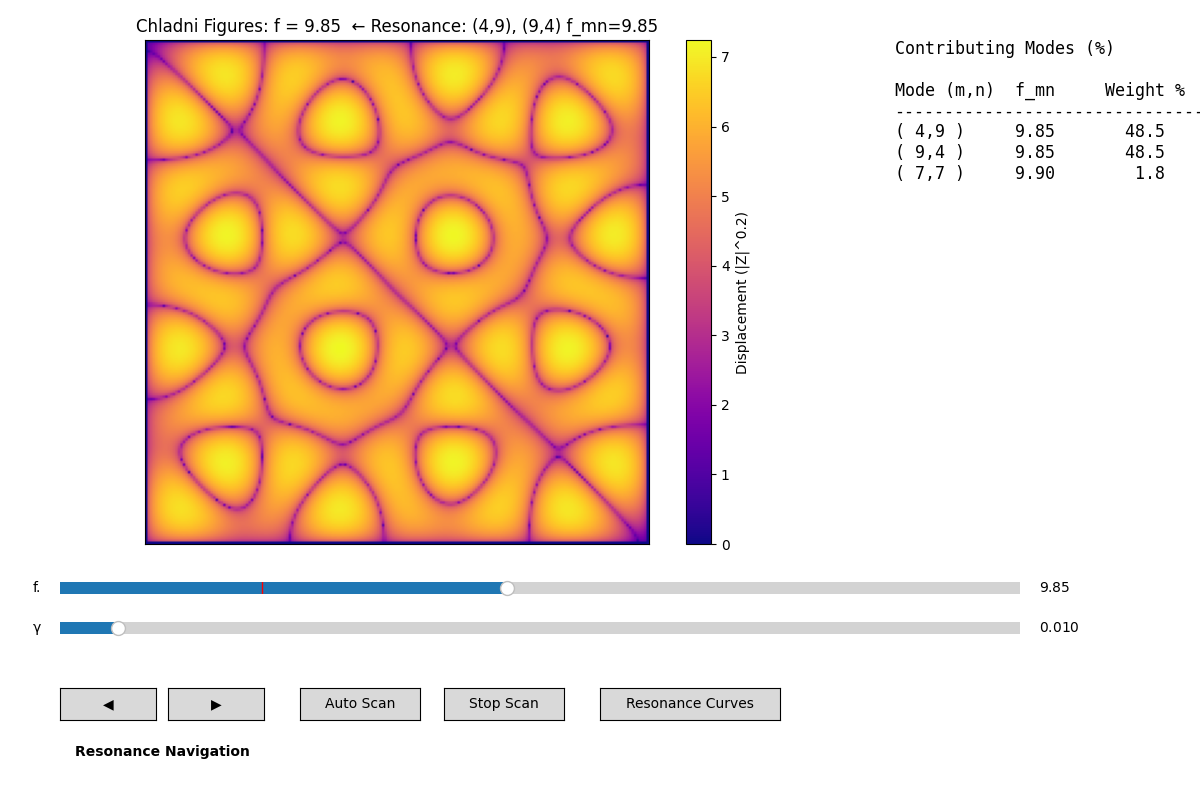
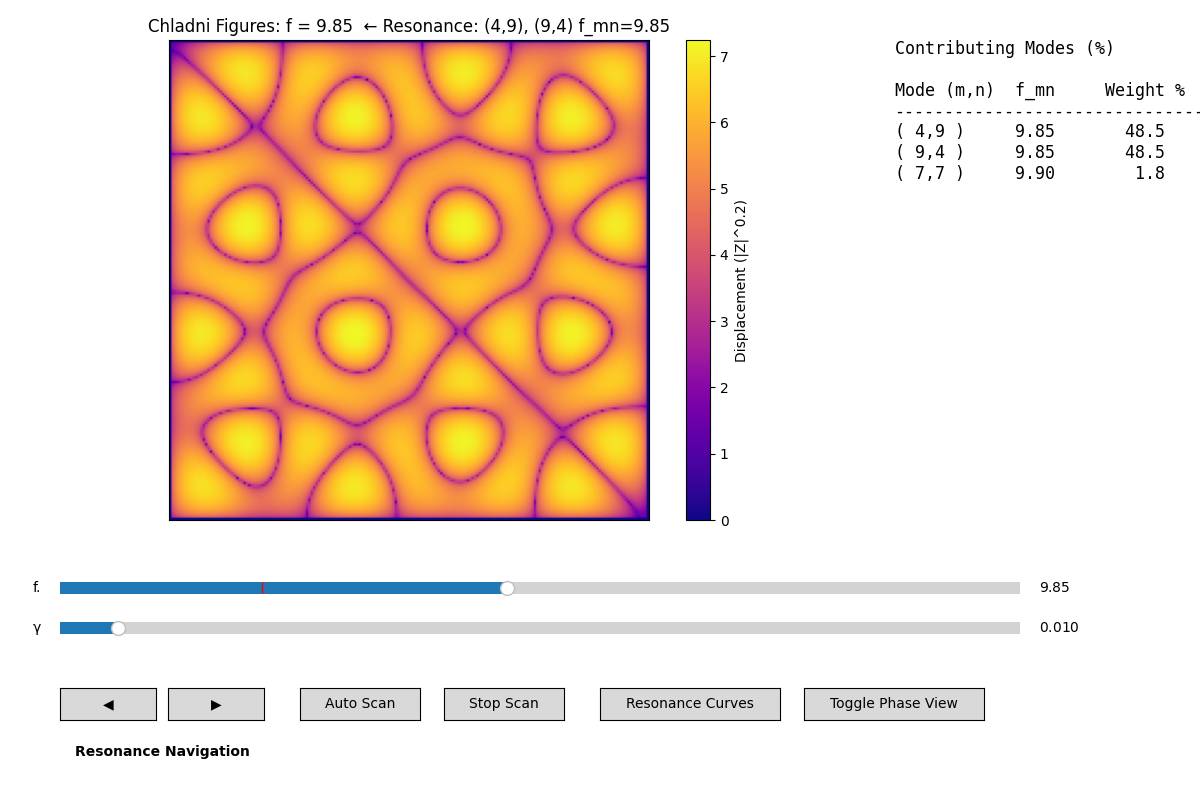
modified:   README.md modified:   images&Animation/Chladni_1.png modified:   images&Animation/Chladni_2.png modified:   images&Animation/Chladni_3.png new file:   images&Animation/Chladni_5.png

diff --git a/README.md b/README.md
@@ -106,9 +106,15 @@ acts as a **resonance factor**, modulating the effective (weighted) displacement
 The damping term is implemented as $γ^2$, where $γ$ is the damping factor. This parameter controls how sharply or broadly modes are excited. A small $γ$ produces narrow, isolated resonances, while a larger value blends contributions from neighboring modes.
 
 ![Chladni](images&Animation/Chladni_2.png)
+![Chladni](images&Animation/Chladni_5.png)
 ![Chladni](images&Animation/membrane_slow.gif)
 
 Top: A 2D static plot showing the time-independent displacement amplitude $Z(x,y,f)$ of the steady-state response to a driving frequency f, matching the eigenfrequency of the degenerate modes (3,5) and (5,3). A small damping factor (γ=0.01) causes these modes to dominate, with minimal contributions from other modes. The plot visualizes the magnitude to highlight nodal lines where displacement is zero. The magnitude makes positive and negative antinodes indistinguishable, mimicking experimental Chladni patterns.
+
+Middle:A Phase View showing the signed displacement Z(x,y,f) of the steady-state response.
+Red regions indicate positive displacement (in-phase antinodes),
+blue regions show negative displacement (out-of-phase antinodes),
+and white/gray lines mark nodal lineswhere Z ≈ 0. This view highlights the wave's phase structure.
 
 Bottom (only for comparison): An animated 3D plot of free oscillation, showing the time-dependent displacement field $Z(x,y,t)$ of the degenerate modes (3,5) and (5,3), with cosine-only time dependence. The cosine term corresponds to the membrane starting at maximum height with zero initial velocity, producing stable nodal lines at $Z=0$ that align with the 2D plot. Negative antinodes appear darker unlike the 2D plot’s uniform magnitude. Vibrations are amplified and slowed for visual clarity.
 
